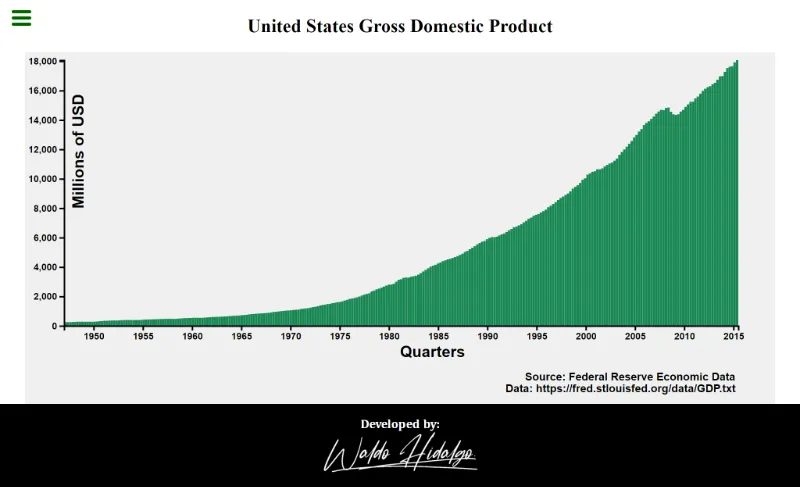
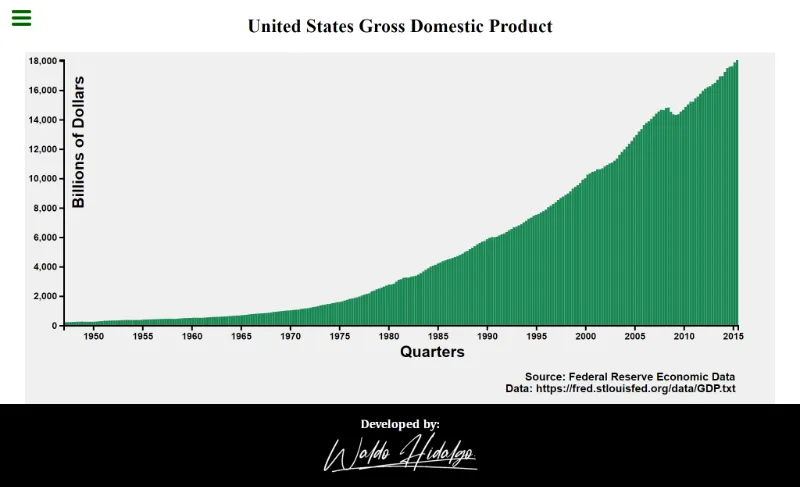
update images

diff --git a/js/index.js b/js/index.js
@@ -38,7 +38,7 @@ document.addEventListener("DOMContentLoaded", async function () {
       .attr("y", 75)
       .attr("transform", "rotate(-90)")
       .attr("class", "label-y")
-      .text("Millions of USD");
+      .text("Billions of Dollars");
 
     svg
       .append("text")

diff --git a/README.md b/README.md
@@ -14,7 +14,7 @@ Primer proyecto requisito obligatorio para obtener la [**Data Visualization Cert
 
 ### 2. All tests passed
 
-![All test passed](./screenshots/passed_all_tests.webp)
+![All test passed](./screenshots/all_test_passed.webp)
 
 ### 3.Tooltip
 
